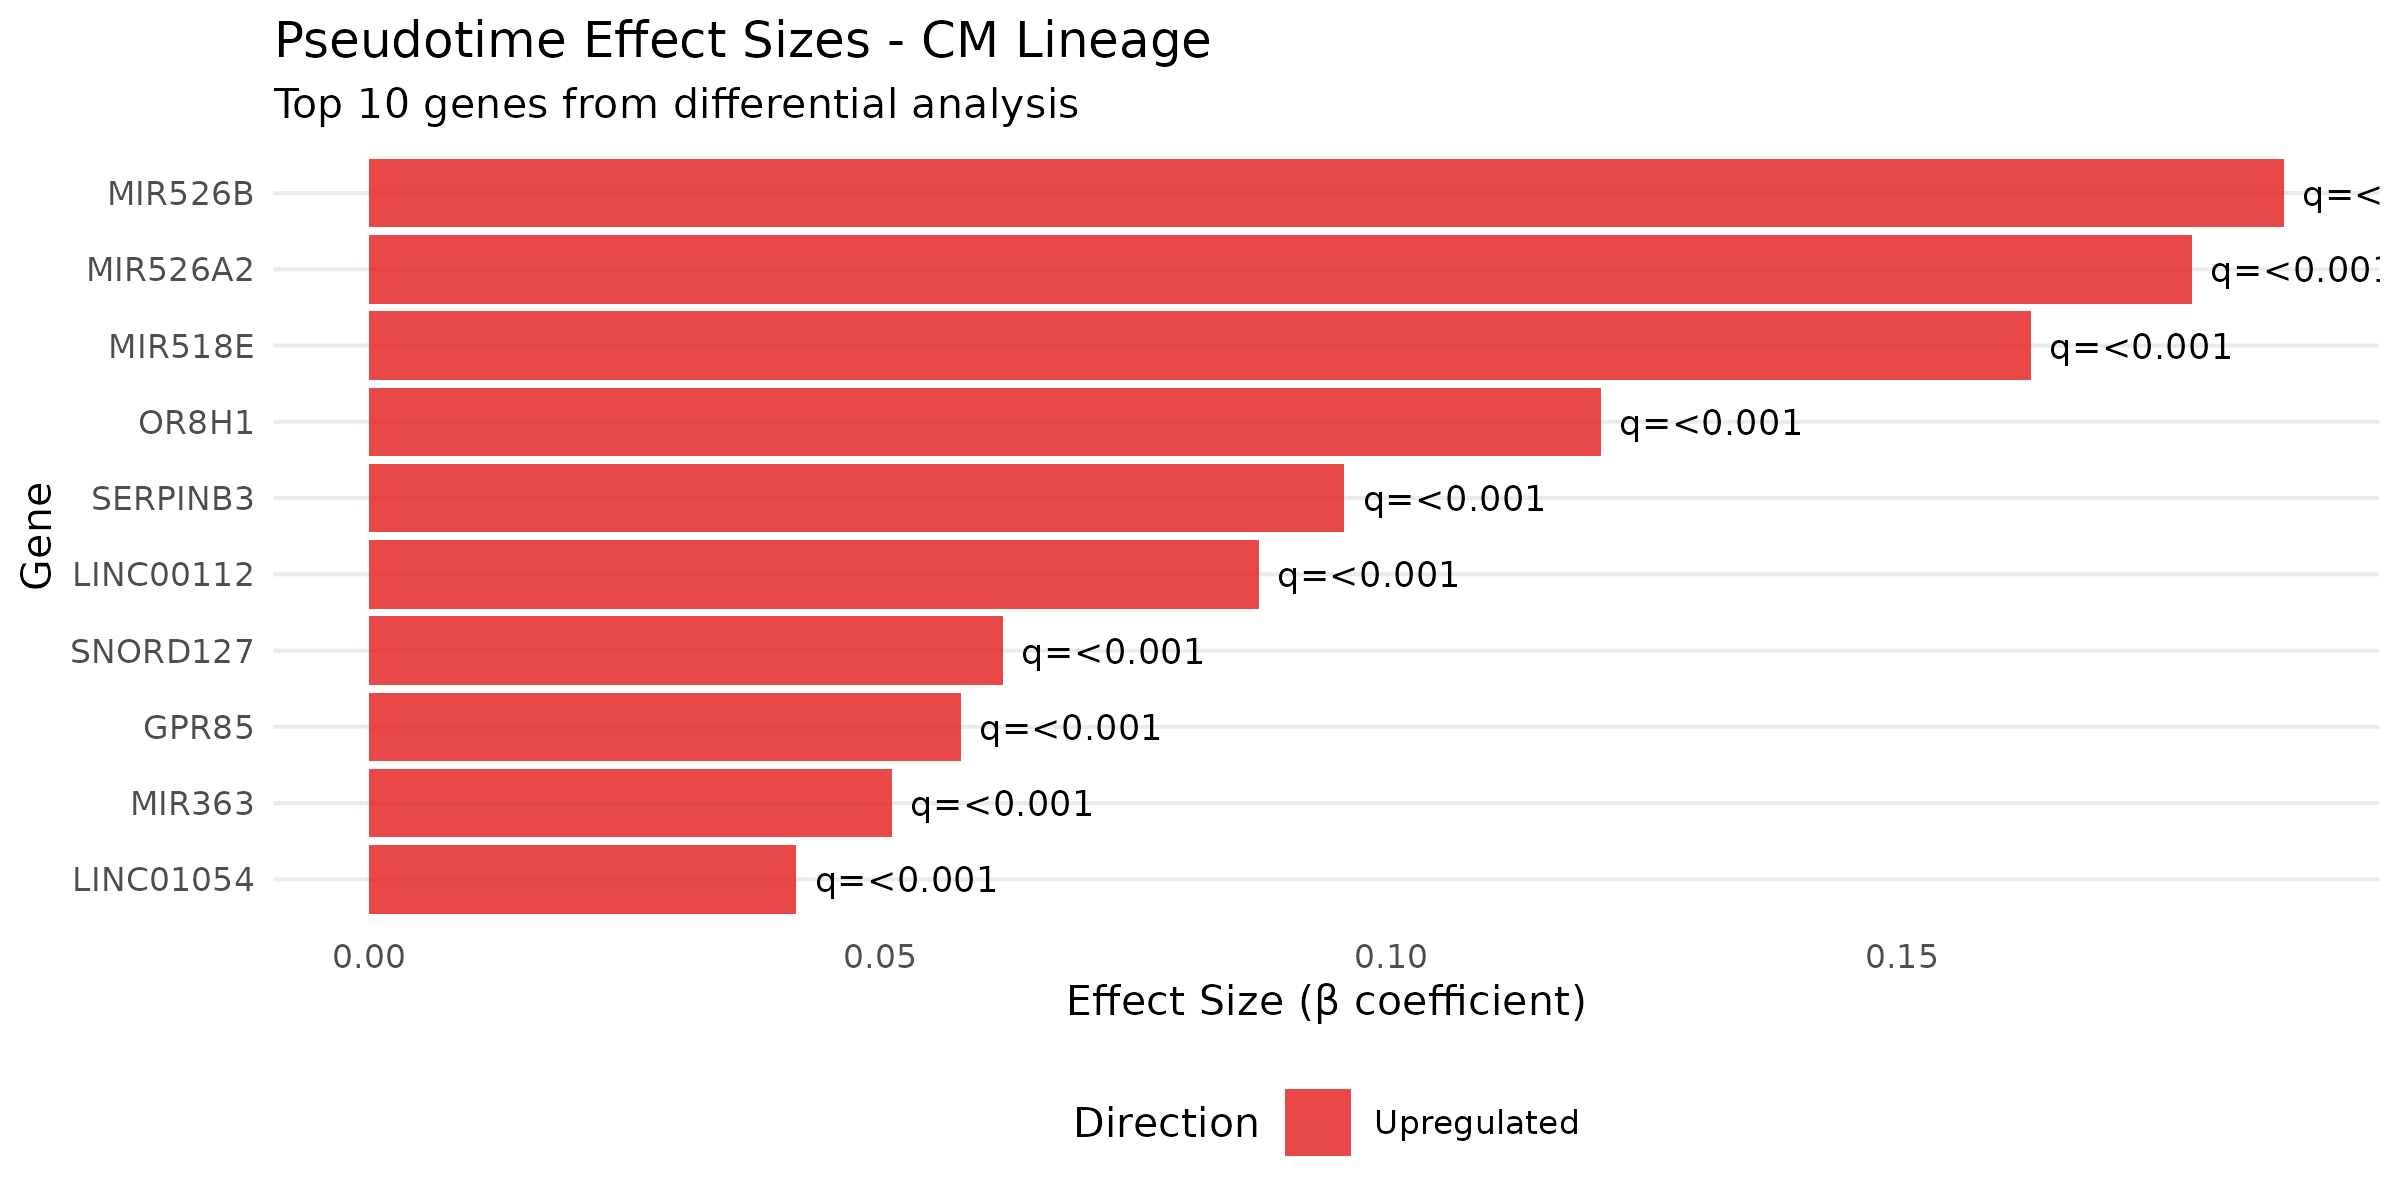
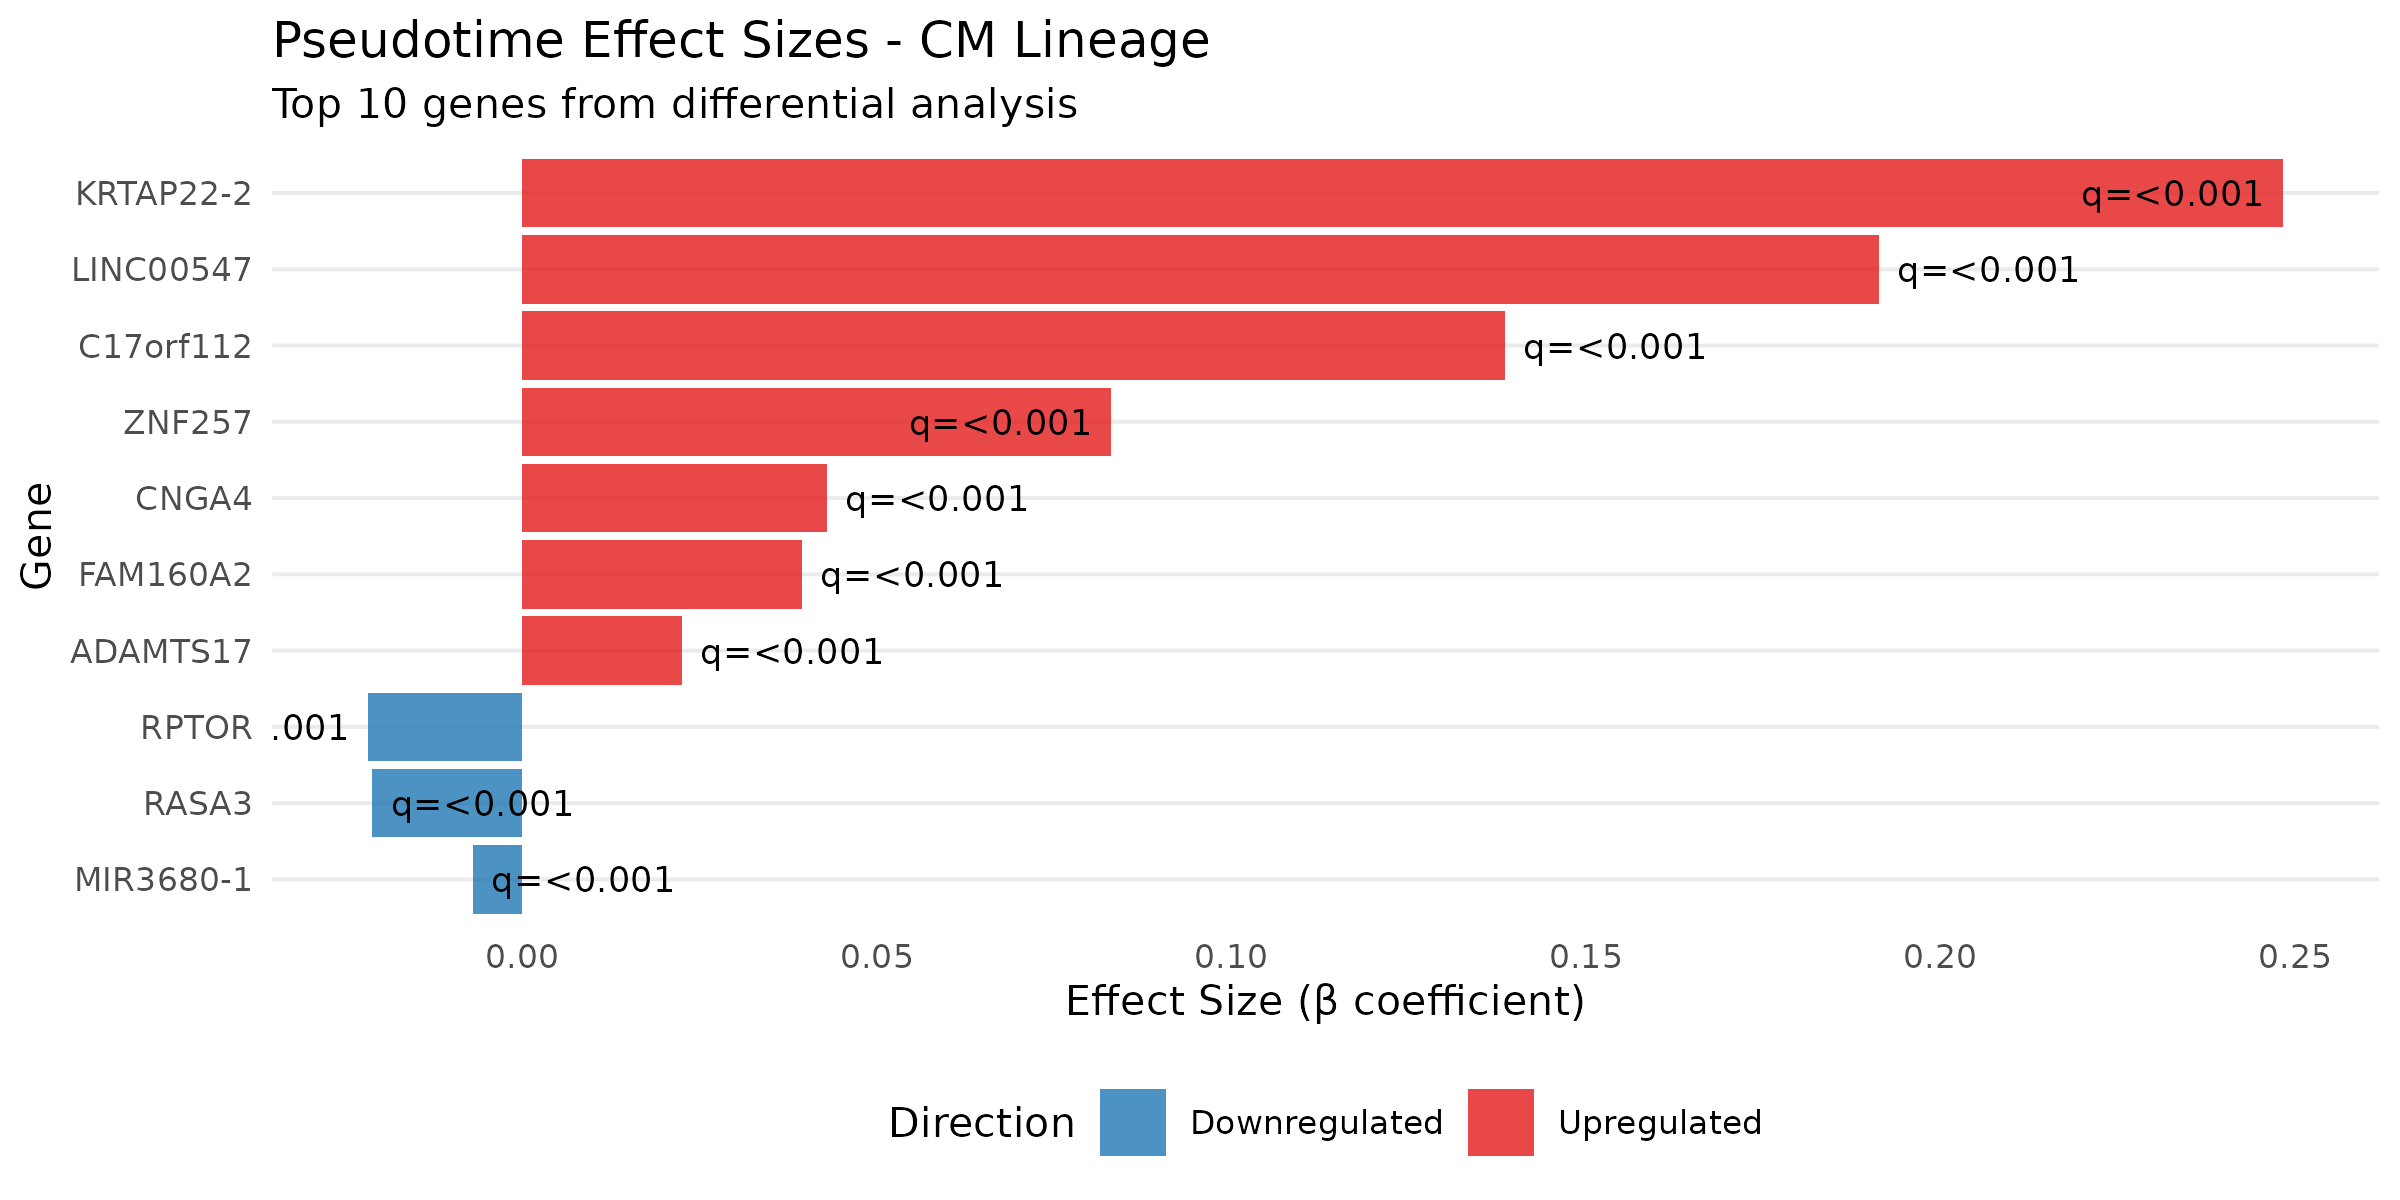
updated the raw genescore results

diff --git a/_includes/section18.html b/_includes/section18.html
@@ -132,36 +132,36 @@
         <th style="border: 1px solid #ddd; padding: 8px;">Upregulated</th>
         <th style="border: 1px solid #ddd; padding: 8px;">Downregulated</th>
         <th style="border: 1px solid #ddd; padding: 8px;">Median Effect Size</th>
-        
+    </tr>
     <tr>
         <td style="border: 1px solid #ddd; padding: 8px;">CM</td>
-        <td style="border: 1px solid #ddd; padding: 8px;">24,768</td>
-        <td style="border: 1px solid #ddd; padding: 8px;">24,768</td>
-        <td style="border: 1px solid #ddd; padding: 8px;">24,768</td>
-        <td style="border: 1px solid #ddd; padding: 8px;">18,877</td>
-        <td style="border: 1px solid #ddd; padding: 8px;">8,948</td>
-        <td style="border: 1px solid #ddd; padding: 8px;">9,929</td>
-        <td style="border: 1px solid #ddd; padding: 8px;">0.010</td>
-       
+        <td style="border: 1px solid #ddd; padding: 8px;">24,755</td>
+        <td style="border: 1px solid #ddd; padding: 8px;">24,755</td>
+        <td style="border: 1px solid #ddd; padding: 8px;">24,755</td>
+        <td style="border: 1px solid #ddd; padding: 8px;">86</td>
+        <td style="border: 1px solid #ddd; padding: 8px;">47</td>
+        <td style="border: 1px solid #ddd; padding: 8px;">39</td>
+        <td style="border: 1px solid #ddd; padding: 8px;">0.040</td>
     </tr>
     <tr>
         <td style="border: 1px solid #ddd; padding: 8px;">EM</td>
-        <td style="border: 1px solid #ddd; padding: 8px;">24,768</td>
-        <td style="border: 1px solid #ddd; padding: 8px;">24,768</td>
-        <td style="border: 1px solid #ddd; padding: 8px;">24,768</td>
-        <td style="border: 1px solid #ddd; padding: 8px;">19,330</td>
-        <td style="border: 1px solid #ddd; padding: 8px;">9,917</td>
-        <td style="border: 1px solid #ddd; padding: 8px;">9,413</td>
-        <td style="border: 1px solid #ddd; padding: 8px;">0.020</td>
-       
+        <td style="border: 1px solid #ddd; padding: 8px;">24,755</td>
+        <td style="border: 1px solid #ddd; padding: 8px;">24,755</td>
+        <td style="border: 1px solid #ddd; padding: 8px;">24,755</td>
+        <td style="border: 1px solid #ddd; padding: 8px;">195</td>
+        <td style="border: 1px solid #ddd; padding: 8px;">121</td>
+        <td style="border: 1px solid #ddd; padding: 8px;">74</td>
+        <td style="border: 1px solid #ddd; padding: 8px;">0.103</td>
     </tr>
 </table>
 
 <p><strong>Analysis Parameters:</strong> Q threshold = 0.05, Min cells threshold = 10, Top genes setting = 0</p>
 
 <h3>18.3 Pseudotime Analysis Visualizations</h3>
-Imputed GeneScore matrix:
-<h4>H3K27me3 (K27) Pseudotime Analysis</h4>
+
+<h4>Imputed GeneScore Matrix Results</h4>
+
+<h5>H3K27me3 (K27) Pseudotime Analysis</h5>
 <div style="text-align: center; margin: 20px 0;">
     <img src="results/section18/K27/pseudotime_effect_sizes.png" style="width:600px;" alt="H3K27me3 pseudotime effect sizes">
     <p><em>Effect sizes for genes along pseudotime in H3K27me3 analysis</em></p>
@@ -177,7 +177,7 @@ Imputed GeneScore matrix:
     <p><em>UMAP visualization with H3K27me3 features colored by pseudotime</em></p>
 </div>
 
-<h4>H3K4me3 (K4) Pseudotime Analysis</h4>
+<h5>H3K4me3 (K4) Pseudotime Analysis</h5>
 <div style="text-align: center; margin: 20px 0;">
     <img src="results/section18/K4/pseudotime_effect_sizes.png" style="width:600px;" alt="H3K4me3 pseudotime effect sizes">
     <p><em>Effect sizes for genes along pseudotime in H3K4me3 analysis</em></p>
@@ -193,7 +193,7 @@ Imputed GeneScore matrix:
     <p><em>UMAP visualization with H3K4me3 features colored by pseudotime</em></p>
 </div>
 
-<h4>RNAPII Pseudotime Analysis</h4>
+<h5>RNAPII Pseudotime Analysis</h5>
 <div style="text-align: center; margin: 20px 0;">
     <img src="results/section18/RNAPII/pseudotime_effect_sizes.png" style="width:600px;" alt="RNAPII pseudotime effect sizes">
     <p><em>Effect sizes for genes along pseudotime in RNAPII analysis</em></p>
@@ -208,8 +208,10 @@ Imputed GeneScore matrix:
     <img src="results/section18/RNAPII/pseudotime_umap_feature_panels.png" style="width:600px;" alt="RNAPII pseudotime UMAP feature panels">
     <p><em>UMAP visualization with RNAPII features colored by pseudotime</em></p>
 </div>
-Raw GeneScore matrix:
-<h4>RNAPII Results (Raw Data)</h4>
+
+<h4>Raw GeneScore Matrix Results</h4>
+
+<h5>RNAPII Results (Raw Data)</h5>
 <div style="text-align: center; margin: 20px 0;">
     <img src="results/section18/RNAPII/raw/pseudotime_effect_sizes.png" style="width:600px;" alt="RNAPII pseudotime effect sizes">
     <p><em>Effect sizes for genes along pseudotime in RNAPII analysis</em></p>
@@ -219,6 +221,7 @@ Raw GeneScore matrix:
     <img src="results/section18/RNAPII/raw/pseudotime_trend_panels.png" style="width:600px;" alt="RNAPII pseudotime trend panels">
     <p><em>Trend panels showing gene expression patterns along pseudotime for RNAPII</em></p>
 </div>
+
 <div style="text-align: center; margin: 20px 0;">
     <img src="results/section18/RNAPII/raw/pseudotime_umap_feature_panels.png" style="width:600px;" alt="RNAPII pseudotime UMAP feature panels">
     <p><em>UMAP visualization with RNAPII features colored by pseudotime</em></p>
